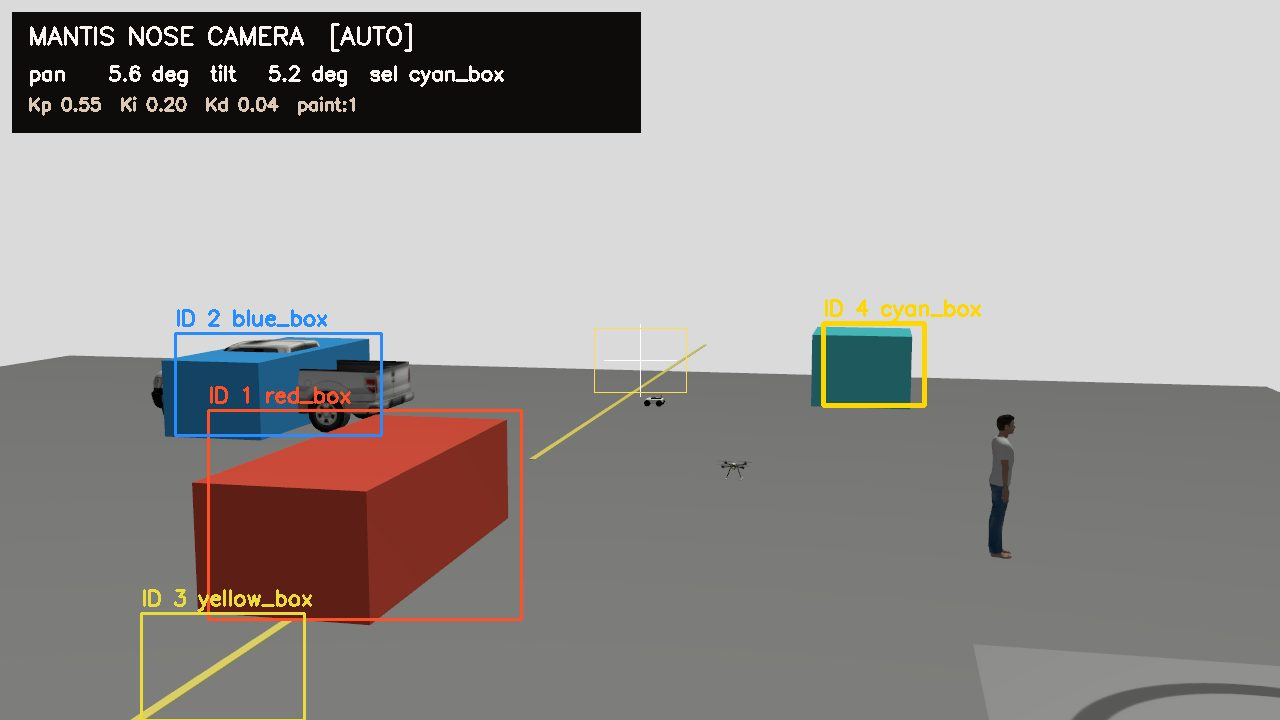
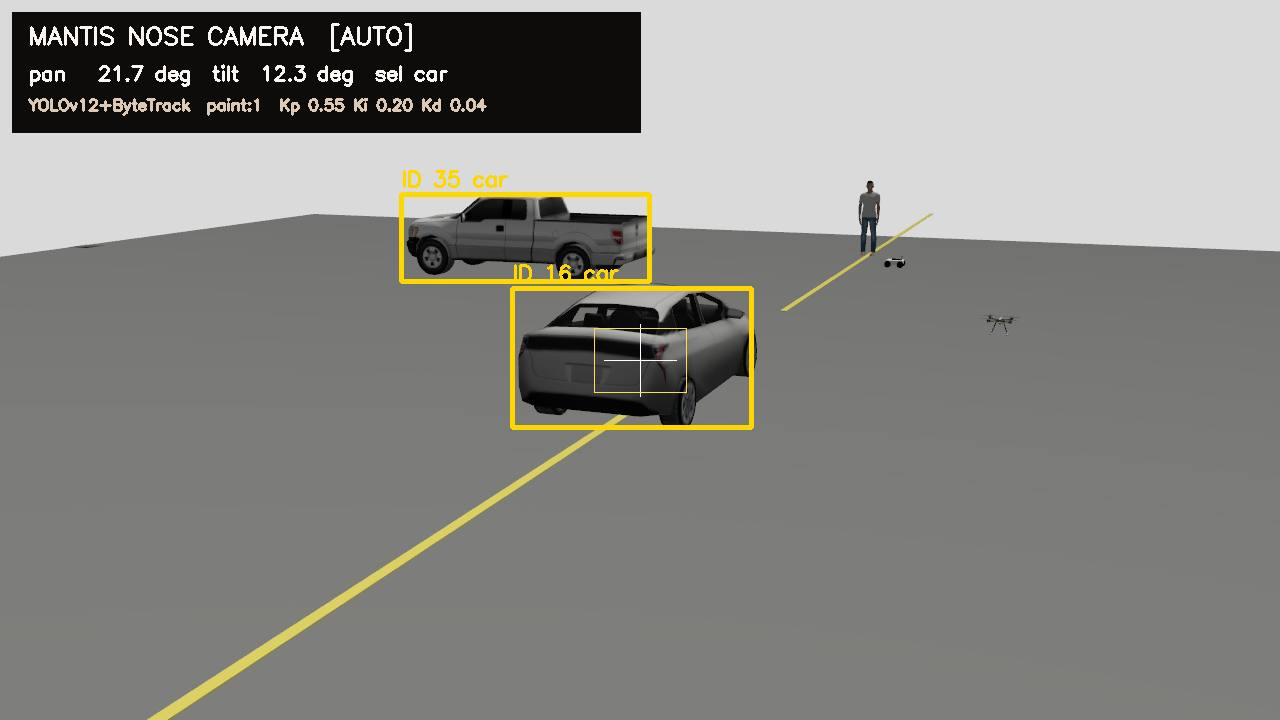
Auto Paint + zoom + telemetry plot + perf tuning
UI:
- 'Auto Paint' button restored alongside 'Auto Serial Tracker' so the
  paint-on-center behaviour (stay on same target) is independent of the
  serial advance behaviour.
- Live nose-camera zoom slider 1x-4x with click-coord correction so
  clicking through the zoomed image still selects the right pixel.

Perf:
- cv2.setNumThreads(1); torch.set_num_threads(2)+interop=1.
- OMP/MKL/OpenBLAS env defaults set before any heavy import.
- YOLO imgsz 640 -> 384 for ~4x faster CPU inference.
- Detection rate capped to 8 Hz (DETECTION_INTERVAL_S=125ms) so YOLO
  cannot saturate the cores and starve on_image / MJPEG threads.
- Result: web_app CPU 290%->~65%, MJPEG to client 5fps->11fps.

Docs:
- scripts/capture_telemetry.py: tracks a target while logging joint
  command, actual joint state, and normalized pixel error, then writes
  a convergence plot to docs/assets/convergence.png.
- README: embedded convergence graph + auto-paint vs auto-serial
  distinction + zoom doc.

diff --git a/scripts/capture_telemetry.py b/scripts/capture_telemetry.py
@@ -1,0 +1,106 @@
+#!/usr/bin/env python3
+"""Capture a tracking session and produce convergence plot for docs."""
+from __future__ import annotations
+
+import json
+import sys
+import time
+import urllib.request
+
+import matplotlib
+matplotlib.use("Agg")
+import matplotlib.pyplot as plt
+
+
+WEB = "http://127.0.0.1:5055"
+OUT_PNG = "/home/sanju/MANTIS_PAINTER/docs/assets/convergence.png"
+
+
+def post(path: str, body: dict) -> dict:
+    req = urllib.request.Request(
+        f"{WEB}{path}", data=json.dumps(body).encode(),
+        headers={"Content-Type": "application/json"}, method="POST",
+    )
+    return json.loads(urllib.request.urlopen(req, timeout=10).read())
+
+
+def get(path: str) -> dict:
+    return json.loads(urllib.request.urlopen(f"{WEB}{path}", timeout=10).read())
+
+
+def main():
+    post("/api/detector", {"mode": "auto"})
+    time.sleep(2)
+    post("/api/mode", {"mode": "home"})
+    time.sleep(2)
+    post("/api/mode", {"mode": "manual"})
+    post("/api/jog", {"dpan": 22, "dtilt": -3})
+    time.sleep(4)
+
+    d = get("/api/status")
+    target = next((x for x in d["detections"] if x["score"] > 0.4), None)
+    if target is None and d["detections"]:
+        target = d["detections"][0]
+    if target is None:
+        print("no detections — aborting")
+        sys.exit(1)
+    cx = (target["bbox"][0] + target["bbox"][2]) / 2
+    cy = (target["bbox"][1] + target["bbox"][3]) / 2
+    print(f"selecting {target['name']} at ({cx:.0f},{cy:.0f})")
+    post("/api/select", {"x": cx, "y": cy})
+
+    t0 = time.time()
+    times, pan_cmd, pan_act, tilt_cmd, tilt_act, ex, ey = ([] for _ in range(7))
+    for _ in range(60):
+        d = get("/api/status")
+        det = next(
+            (x for x in d["detections"] if x["name"] == d["selected_name"]),
+            None,
+        )
+        t = time.time() - t0
+        times.append(t)
+        pan_cmd.append(d["pan_deg"])
+        pan_act.append(d["actual_pan_deg"])
+        tilt_cmd.append(d["tilt_deg"])
+        tilt_act.append(d["actual_tilt_deg"])
+        if det:
+            ccx = (det["bbox"][0] + det["bbox"][2]) / 2
+            ccy = (det["bbox"][1] + det["bbox"][3]) / 2
+            ex.append((ccx - 640) / 640)
+            ey.append((ccy - 360) / 360)
+        else:
+            ex.append(None)
+            ey.append(None)
+        time.sleep(0.20)
+
+    fig, (a1, a2) = plt.subplots(2, 1, figsize=(10, 7), sharex=True)
+    a1.plot(times, pan_cmd, label="pan cmd", color="#1f77b4", linewidth=1.6)
+    a1.plot(times, pan_act, label="pan actual", color="#1f77b4",
+            linestyle="--", linewidth=1.0)
+    a1.plot(times, tilt_cmd, label="tilt cmd", color="#d62728", linewidth=1.6)
+    a1.plot(times, tilt_act, label="tilt actual", color="#d62728",
+            linestyle="--", linewidth=1.0)
+    a1.set_ylabel("deg")
+    a1.set_title(f"MANTIS tracking convergence — selected {target['name']}")
+    a1.legend(loc="best", fontsize=9)
+    a1.grid(alpha=0.3)
+
+    a2.plot(times, [e if e is not None else float("nan") for e in ex],
+            label="ex (pixel error X, normalized)", color="#2ca02c")
+    a2.plot(times, [e if e is not None else float("nan") for e in ey],
+            label="ey (pixel error Y, normalized)", color="#ff7f0e")
+    a2.axhline(0.0, color="#666", linewidth=0.6)
+    a2.axhline(0.030, color="#aaa", linestyle=":", linewidth=0.6, label="deadband")
+    a2.axhline(-0.030, color="#aaa", linestyle=":", linewidth=0.6)
+    a2.set_xlabel("time (s)")
+    a2.set_ylabel("pixel error (normalized)")
+    a2.legend(loc="best", fontsize=9)
+    a2.grid(alpha=0.3)
+
+    plt.tight_layout()
+    plt.savefig(OUT_PNG, dpi=110)
+    print(f"wrote {OUT_PNG}")
+
+
+if __name__ == "__main__":
+    main()

diff --git a/web_app.py b/web_app.py
@@ -9,6 +9,17 @@ from dataclasses import dataclass
 import cv2
 import gz.transport13 as gz_transport
 import numpy as np
+
+# Limit thread fan-out: cv2 + numpy + torch (via env) all default to all cores
+# which makes YOLO + draw_overlay starve the Flask/MJPEG threads. Pin them.
+cv2.setNumThreads(1)
+try:
+    import os as _os
+    _os.environ.setdefault("OMP_NUM_THREADS", "2")
+    _os.environ.setdefault("MKL_NUM_THREADS", "2")
+    _os.environ.setdefault("OPENBLAS_NUM_THREADS", "2")
+except Exception:
+    pass
 from flask import Flask, Response, jsonify, request
 from gz.msgs10.double_pb2 import Double
 from gz.msgs10.image_pb2 import Image
@@ -171,6 +182,15 @@ def _load_yolo():
     if _yolo_model is not None:
         return _yolo_model
     try:
+        import torch  # type: ignore
+        torch.set_num_threads(2)
+        try:
+            torch.set_num_interop_threads(1)
+        except Exception:
+            pass
+    except Exception:
+        pass
+    try:
         from ultralytics import YOLO  # type: ignore
     except Exception as exc:
         yolo_status = f"ultralytics import failed: {exc}"
@@ -207,7 +227,7 @@ def detect_with_yolo(frame: np.ndarray) -> list[Detection] | None:
             tracker=_yolo_tracker_cfg,
             conf=0.30,
             iou=0.5,
-            imgsz=640,
+            imgsz=384,
             verbose=False,
         )
     except Exception as exc:
@@ -707,6 +727,8 @@ def draw_overlay(frame: np.ndarray) -> np.ndarray:
 
 
 _detection_thread_busy = False
+_detection_last_dispatch = 0.0
+DETECTION_INTERVAL_S = 1.0 / 8.0  # cap detection at 8 Hz to free CPU
 
 
 def run_detector(frame: np.ndarray) -> list[Detection]:
@@ -754,8 +776,12 @@ def on_image(msg: Image) -> None:
     ok, jpg = cv2.imencode(".jpg", annotated, [cv2.IMWRITE_JPEG_QUALITY, 72])
     if ok:
         latest_annotated = jpg.tobytes()
-    if not _detection_thread_busy:
+    global _detection_last_dispatch
+    now = time.time()
+    if (not _detection_thread_busy
+            and (now - _detection_last_dispatch) >= DETECTION_INTERVAL_S):
         _detection_thread_busy = True
+        _detection_last_dispatch = now
         threading.Thread(target=detection_worker, args=(frame,),
                          daemon=True).start()
 
@@ -799,7 +825,8 @@ HTML_PAGE = r"""
     main{display:grid;grid-template-columns:minmax(640px,1.35fr) minmax(380px,.65fr);gap:12px;padding:12px}
     section{background:var(--panel);border:1px solid var(--line);border-radius:8px;overflow:hidden}
     .title{height:38px;display:flex;align-items:center;justify-content:space-between;padding:0 12px;border-bottom:1px solid var(--line);color:var(--muted);font-size:13px}
-    #feed{width:100%;aspect-ratio:16/9;display:block;background:#050607;cursor:crosshair}
+    #feedWrap{position:relative;overflow:hidden;background:#050607;aspect-ratio:16/9;cursor:crosshair}
+    #feed{width:100%;aspect-ratio:16/9;display:block;background:#050607;cursor:crosshair;transform-origin:center center;transition:transform .12s ease-out}
     .stats{display:grid;grid-template-columns:repeat(2,1fr);gap:8px;padding:10px}
     .stat{border:1px solid var(--line);border-radius:6px;padding:10px;min-height:62px}
     .label{color:var(--muted);font-size:12px}
@@ -828,8 +855,15 @@ HTML_PAGE = r"""
 <main>
   <div>
     <section>
-      <div class="title"><span>Live Nose Camera</span><span id="status">connecting</span></div>
-      <img id="feed" src="/video_feed">
+      <div class="title">
+        <span>Live Nose Camera</span>
+        <span style="display:flex;gap:8px;align-items:center">
+          <label class="label">zoom <input id="zoom" type="range" min="1" max="4" step="0.1" value="1" style="width:120px;vertical-align:middle"></label>
+          <span id="zoomV" class="label">1.0x</span>
+          <span id="status">connecting</span>
+        </span>
+      </div>
+      <div id="feedWrap"><img id="feed" src="/video_feed"></div>
     </section>
   </div>
   <div>
@@ -849,7 +883,8 @@ HTML_PAGE = r"""
         <button id="mStop" style="background:#5a2126;border-color:#a23a3a" title="freeze in place">STOP</button>
         <button id="clear" title="forget current target">Clear</button>
         <button id="bPaint" style="background:#1f4d8c;border-color:#3a78c0" title="trigger one paint pulse (key P)">PAINT</button>
-        <button id="bSweep" title="fully autonomous: pick → center → paint → next target. Remembers painted targets across sessions.">Auto Serial Tracker: OFF</button>
+        <button id="bPaintAuto" title="auto-fire paint when selected target stays centered (stays on the SAME target)">Auto Paint: OFF</button>
+        <button id="bSweep" title="full autonomous loop: pick → center → paint → NEXT target. Remembers painted targets across sessions.">Auto Serial Tracker: OFF</button>
         <button id="bSweepReset" title="forget painted memory">Reset memory</button>
       </div>
 
@@ -932,6 +967,13 @@ bPaint.onclick=async ()=>{
   catch(e){}
   setTimeout(()=>bPaint.disabled=false, 250);
 };
+let autoPaintOn=false;
+bPaintAuto.onclick=async ()=>{
+  autoPaintOn=!autoPaintOn;
+  bPaintAuto.textContent='Auto Paint: '+(autoPaintOn?'ON':'OFF');
+  bPaintAuto.classList.toggle('active',autoPaintOn);
+  await fetch('/api/paint_auto',{method:'POST',headers:{'Content-Type':'application/json'},body:JSON.stringify({enabled:autoPaintOn})});
+};
 let sweepOn=false;
 bSweep.onclick=async ()=>{
   sweepOn=!sweepOn;
@@ -956,6 +998,15 @@ dAuto.onclick=()=>setDetector('auto');
 dColor.onclick=()=>setDetector('color');
 
 let clickAim=false;
+let zoomVal=1.0;
+const zoomEl=document.getElementById('zoom'),zoomLbl=document.getElementById('zoomV');
+function applyZoom(){
+  zoomVal=parseFloat(zoomEl.value);
+  feed.style.transform='scale('+zoomVal+')';
+  zoomLbl.textContent=zoomVal.toFixed(1)+'x';
+}
+zoomEl.addEventListener('input',applyZoom);
+applyZoom();
 bClickAim.onclick=()=>{
   clickAim=!clickAim;
   bClickAim.textContent='Click-to-Aim: '+(clickAim?'ON':'OFF');
@@ -963,8 +1014,14 @@ bClickAim.onclick=()=>{
 };
 feed.addEventListener('click', async e=>{
   const r=feed.getBoundingClientRect();
-  const x=(e.clientX-r.left)/r.width*1280;
-  const y=(e.clientY-r.top)/r.height*720;
+  // bounding rect already reflects CSS transform; convert click back to
+  // original 1280x720 frame coordinates by un-scaling around center.
+  const w=r.width, h=r.height;
+  const cxScreen=r.left + w/2, cyScreen=r.top + h/2;
+  const dx=(e.clientX - cxScreen)/zoomVal;
+  const dy=(e.clientY - cyScreen)/zoomVal;
+  const x=(w/2 + dx)/w * 1280;
+  const y=(h/2 + dy)/h * 720;
   const url=clickAim?'/api/click_target':'/api/select';
   await fetch(url,{method:'POST',headers:{'Content-Type':'application/json'},body:JSON.stringify({x,y})});
 });

diff --git a/README.md b/README.md
@@ -4,6 +4,12 @@ Realtime persistent tracking with precision pan/tilt control. Gazebo Harmonic si
 
 ![nose camera view with object detections, track IDs, crosshair and live PID values](docs/assets/nose_camera.jpg)
 
+### Convergence trace — selecting a car, controller centers it
+
+![pan and tilt cmd vs actual on top, normalized pixel error ex/ey on bottom](docs/assets/convergence.png)
+
+Top: blue = pan (cmd solid, actual dashed). Red = tilt (same). Bottom: normalized pixel error of the selected target's bbox center (`ex` horizontal, `ey` vertical). The dotted lines mark the deadband.
+
 ## What kind of tracking is this?
 
 Object-level tracking, not blind pixel tracking.
@@ -39,13 +45,16 @@ So the controller does not chase a pixel — it chases a *tracked object*. If th
 | button | behaviour |
 |---|---|
 | `Tracking: ON/OFF` | toggle auto-tracking of the selected target |
-| `Auto track+paint` | fully autonomous: pick next un-painted target, centre, paint, advance. No user input needed. Works even when Tracking is OFF |
+| `Auto Paint: ON/OFF` | fire one paint pulse whenever the selected target is centred and held. Stays on the same target |
+| `Auto Serial Tracker: ON/OFF` | fully autonomous loop: pick next un-painted target → centre → paint → advance. Remembers painted targets across sessions (`/tmp/mantis_painted_memory.json`). Independent of Tracking switch |
+| `Reset memory` | clear the painted-target memory |
 | `Manual / Jog pad / Arrow keys` | drive pan & tilt directly with step size 0.5°–10° |
 | `Home` | smooth return to `pan=0, tilt=12°` |
 | `STOP` | freeze cmd at current actual angles |
 | `Click-to-Aim` | clicks on the feed aim the camera at that pixel instead of selecting a bbox |
-| `PAINT` | one paint pulse on current target (or image centre). Key `P` |
+| `PAINT` | one paint pulse on current target. Key `P` |
 | `Auto-tune` | step-response FOPDT identification + Cohen-Coon → applies gains |
+| `zoom` slider | browser-side digital zoom 1×–4× on the live feed (clicks are corrected back to source coords) |
 
 ### Web UI
 - Live MJPEG feed at `http://127.0.0.1:5055`